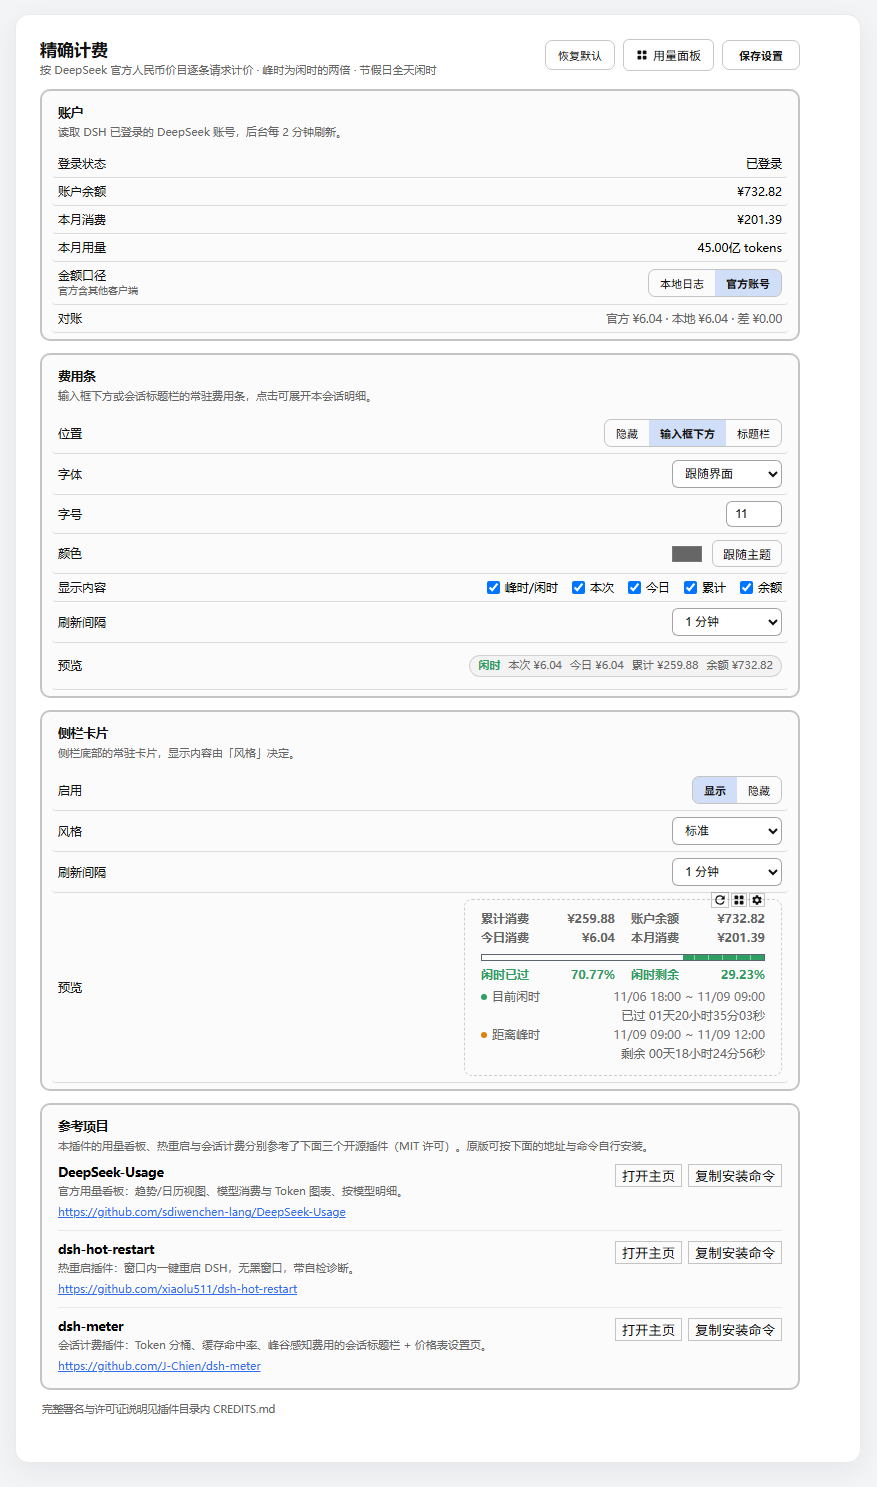
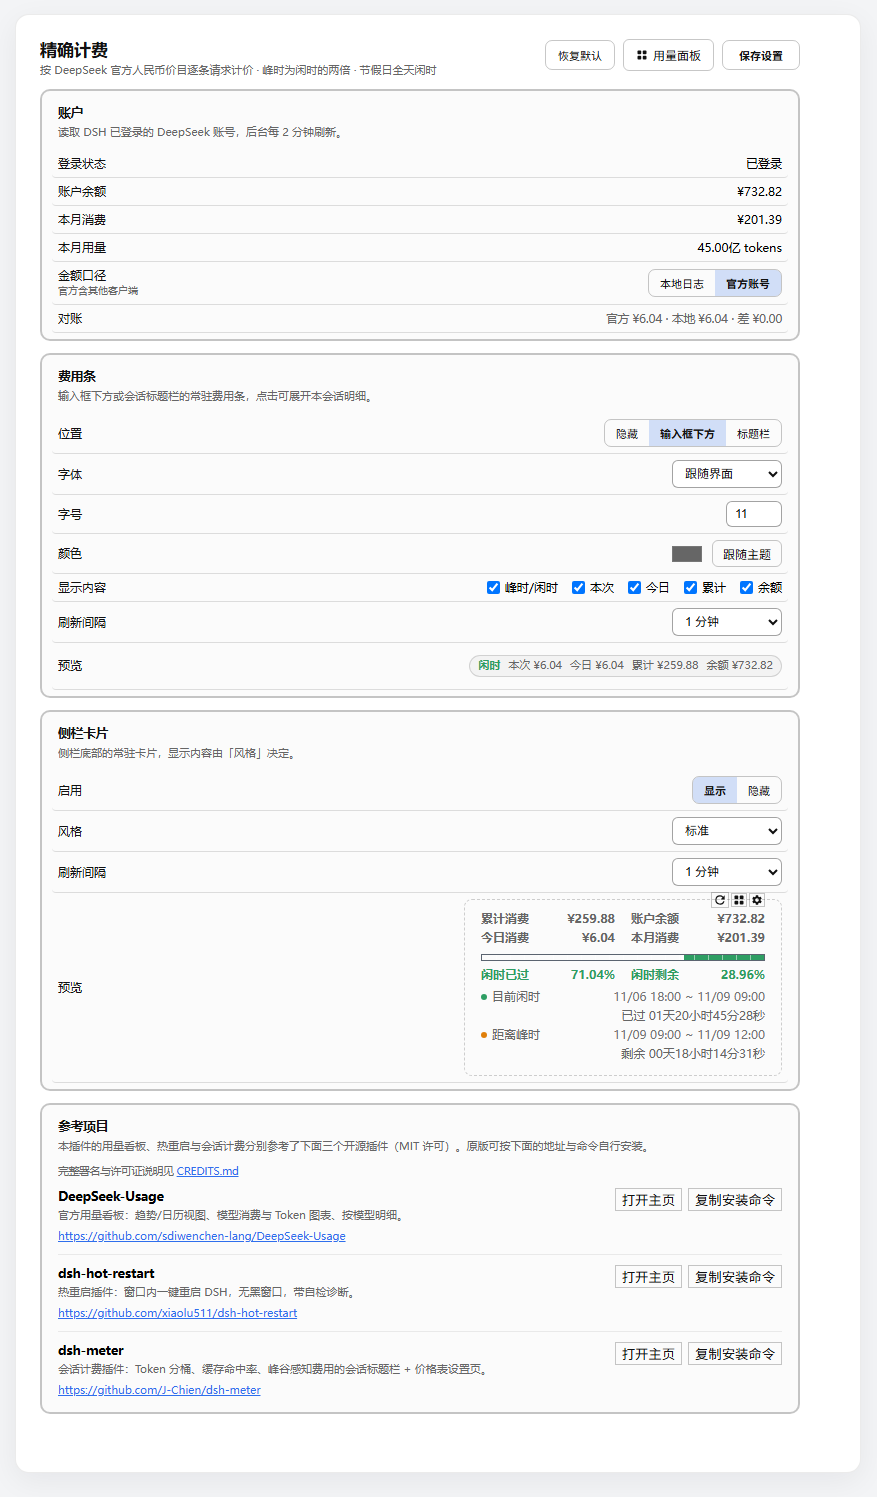
feat(settings): move CREDITS note under reference description and link to served CREDITS.md

diff --git a/client.js b/client.js
@@ -3013,6 +3013,9 @@ function closeIcon(size = 14) {
 
         h(Section, { title: '参考项目', desc: '本插件的用量看板、热重启与会话计费分别参考了下面三个开源插件（MIT 许可）。原版可按下面的地址与命令自行安装。' },
           h('div', { style: { display: 'flex', flexDirection: 'column', gap: 10, paddingBottom: 8 } },
+            h('div', { style: { fontSize: 10.5, color: MUTED } },
+              '完整署名与许可证说明见 ',
+              h('a', { href: '/api/precise-billing/credits', target: '_blank', rel: 'noopener noreferrer', style: { color: '#2f6fed', textDecoration: 'underline' } }, 'CREDITS.md')),
             h('div', { style: { display: 'flex', alignItems: 'flex-start', justifyContent: 'space-between', gap: 12, flexWrap: 'wrap' } },
               h('div', { style: { minWidth: 0, flex: '1 1 240px' } },
                 h('div', { style: { fontSize: 12.5, fontWeight: 600 } }, 'DeepSeek-Usage'),
@@ -3039,7 +3042,6 @@ function closeIcon(size = 14) {
               h('div', { style: { display: 'flex', gap: 6, flex: '0 0 auto' } },
                 h('button', { type: 'button', onClick: () => { try { window.open('https://github.com/J-Chien/dsh-meter', '_blank', 'noopener'); } catch { /* ignore */ } } }, '打开主页'),
                 h('button', { type: 'button', onClick: () => { const ok = copyRestartLog('dsh plugin --profile desktop add dsh-meter'); if (ok) notify('安装命令已复制到剪贴板'); else notify('复制失败'); } }, '复制安装命令'))))),
-        h('div', { style: { fontSize: 10.5, color: MUTED, margin: '6px 2px 0' } }, '完整署名与许可证说明见插件目录内 CREDITS.md'),
 
       );
     }

diff --git a/index.js b/index.js
@@ -17,6 +17,7 @@
  */
 import fs from 'node:fs';
 import os from 'node:os';
+import { fileURLToPath } from 'node:url';
 import { spawn } from 'node:child_process';
 import path from 'node:path';
 import { zstdDecompressSync } from 'node:zlib';
@@ -1278,6 +1279,7 @@ export async function readAccount(ctx) {
  *   job object 连带结束；本函数为独立编写的精简实现（约 50 行），未复制其源码。
  */
 
+const PLUGIN_ROOT = path.dirname(fileURLToPath(import.meta.url));
 let lastRestartAt = 0;
 let hostCtx;
 function runningSessions() {
@@ -1401,7 +1403,18 @@ export function apply(ctx) {
           return;
         }
 
-        if (pathname === '/api/precise-billing/restart') {
+        if (pathname === '/api/precise-billing/credits') {
+      try {
+        const text = fs.readFileSync(path.join(PLUGIN_ROOT, 'CREDITS.md'), 'utf8');
+        res.writeHead(200, { 'content-type': 'text/plain; charset=utf-8', 'cache-control': 'no-store' });
+        res.end(text);
+      } catch (error) {
+        sendJson(res, 404, { ok: false, error: String((error && error.message) || error) });
+      }
+      return;
+    }
+
+    if (pathname === '/api/precise-billing/restart') {
       if (req.method !== 'POST') { sendJson(res, 405, { ok: false, error: 'method not allowed' }); return; }
       let restartBody = {};
       try { restartBody = JSON.parse((await readBody(req)) || '{}'); } catch { restartBody = {}; }
